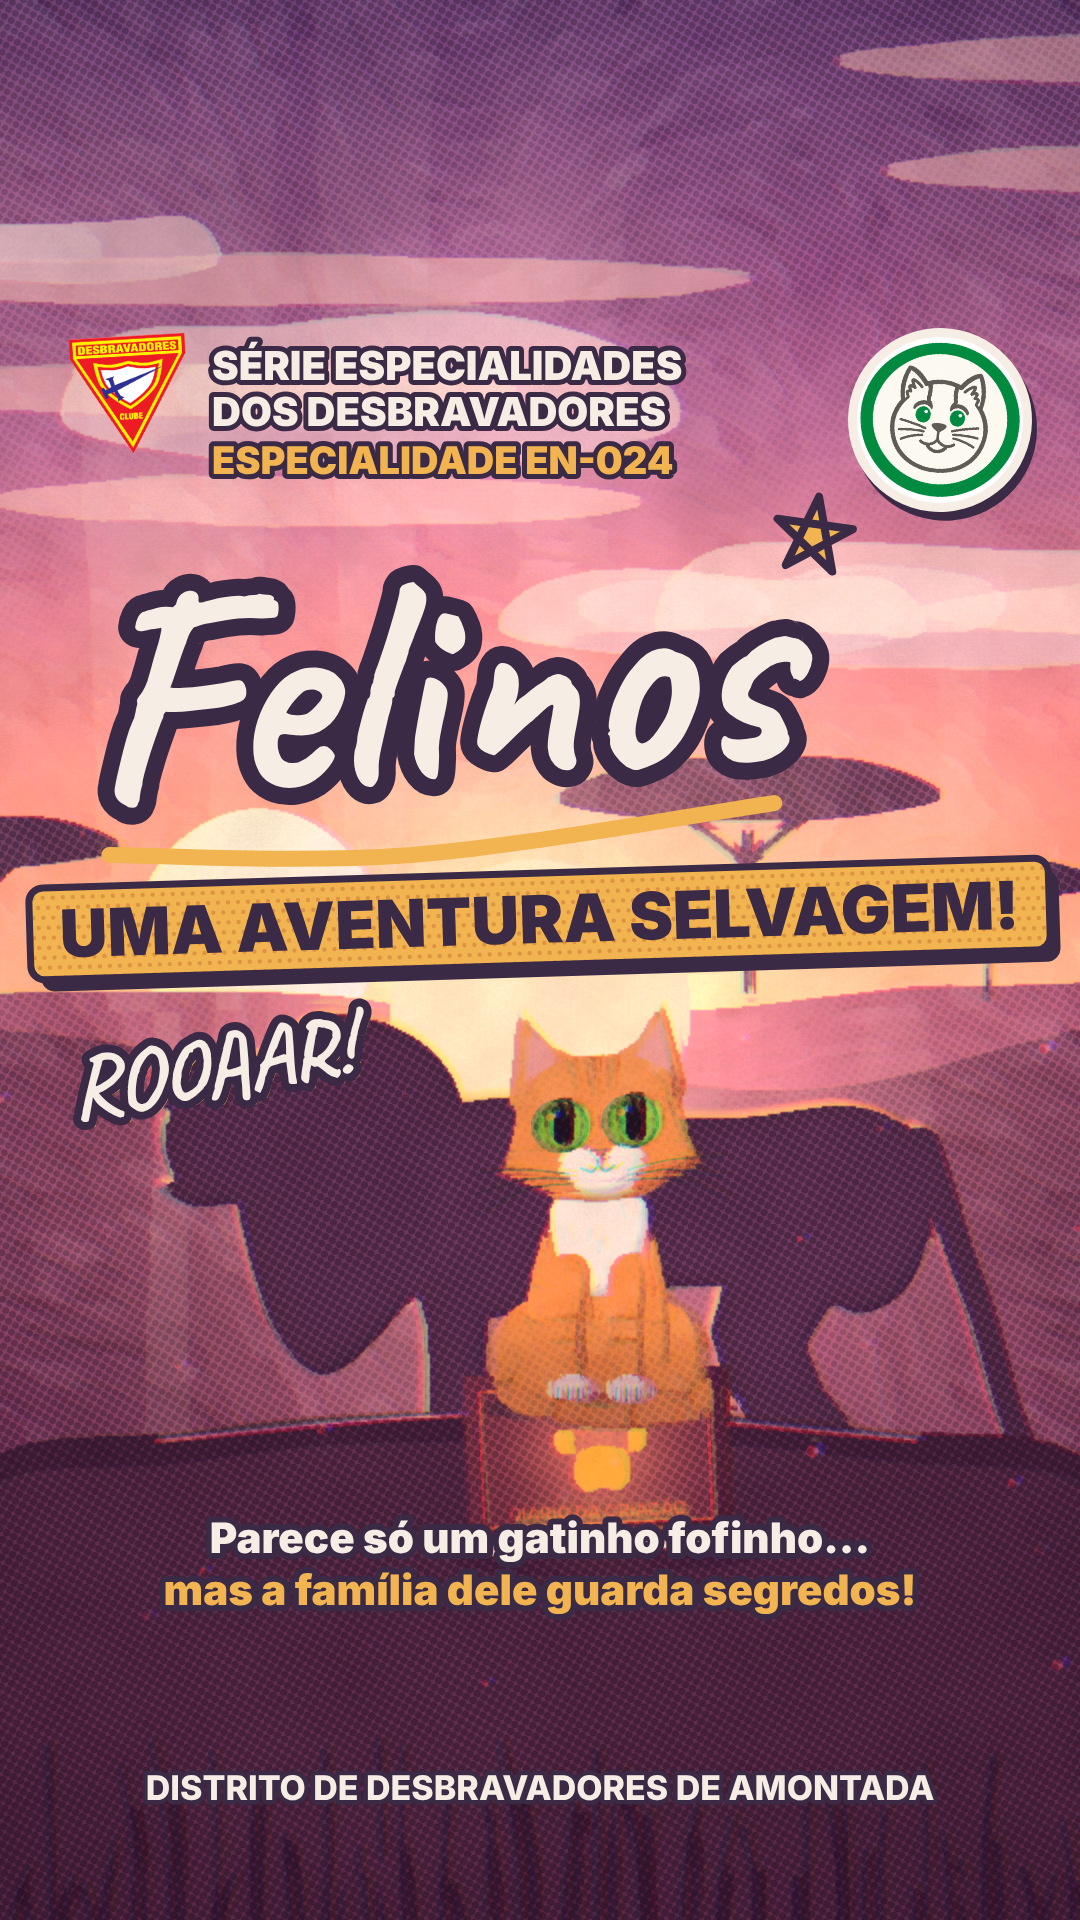
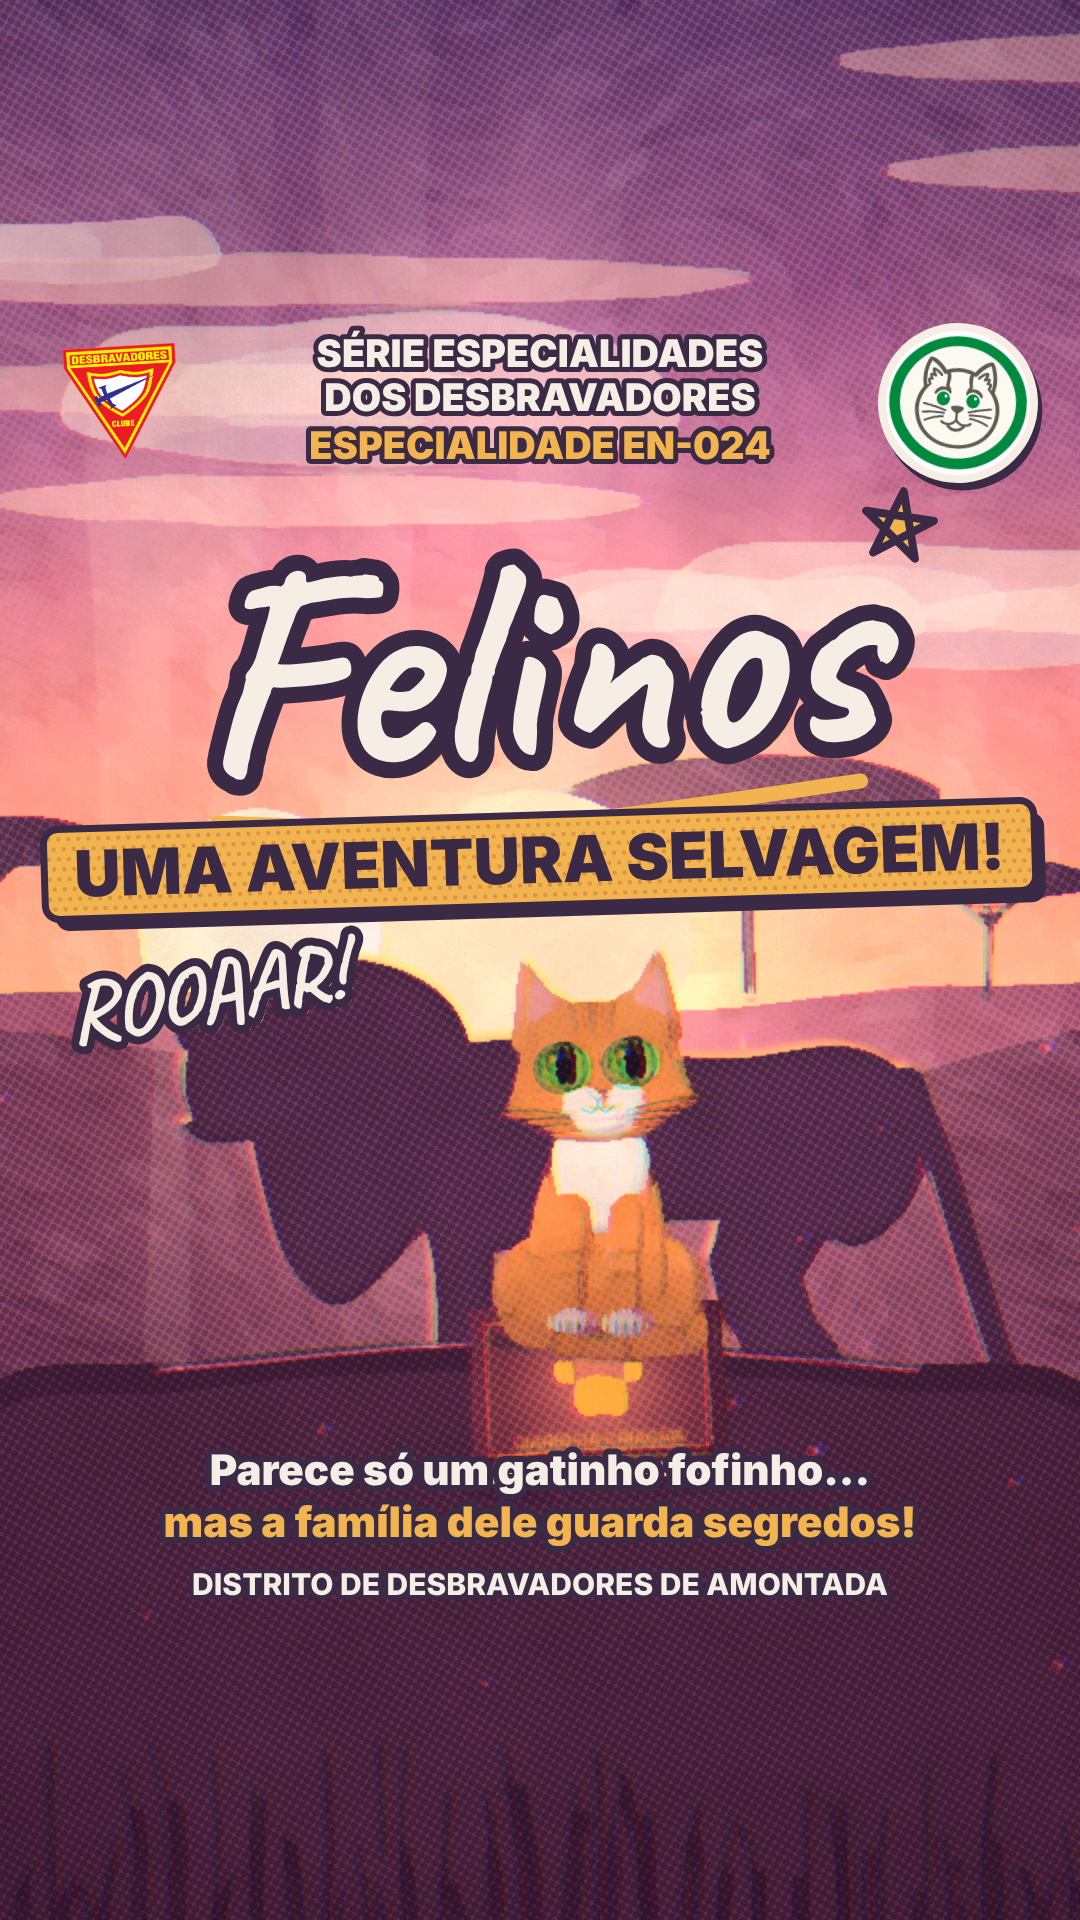
Felinos: capa 9:16 com o essencial centralizado na faixa 4:5; regra registrada no estilo aprovado
Claude-Session: https://claude.ai/code/session_01NsvQa17PZTE8K7Z7TbbvHr

diff --git a/FELINOS_EPISODIO/js/capa.js b/FELINOS_EPISODIO/js/capa.js
@@ -7,26 +7,26 @@ function renderCapa(ctx, o = {}) {
   BOIL = 3; ctx.setTransform(1, 0, 0, 1, 0, 0); ctx.globalAlpha = 1; ctx.globalCompositeOperation = 'source-over';
   // ---------- céu da savana ao pôr do sol, sol atrás do título
   ctx.drawImage(savannaBg(), -210, -200);
-  glowSpot(ctx, 540, 1010, 760, 'rgba(255,196,140,0.55)');
-  ctx.fillStyle = '#FFF0D2'; ctx.beginPath(); ctx.arc(540, 1010, 150, 0, 6.283); ctx.fill();
-  sunRays(ctx, t, { x: 540, y: 1010, ang: Math.PI, len: 1300, n: 9, width: 90, alpha: 0.26, seed: 31 });
-  sunRays(ctx, t, { x: 540, y: 1010, ang: 0, len: 1200, n: 7, width: 80, alpha: 0.12, seed: 37 });
+  glowSpot(ctx, 540, 940, 760, 'rgba(255,196,140,0.55)');
+  ctx.fillStyle = '#FFF0D2'; ctx.beginPath(); ctx.arc(540, 940, 150, 0, 6.283); ctx.fill();
+  sunRays(ctx, t, { x: 540, y: 940, ang: Math.PI, len: 1300, n: 9, width: 90, alpha: 0.26, seed: 31 });
+  sunRays(ctx, t, { x: 540, y: 940, ang: 0, len: 1200, n: 7, width: 80, alpha: 0.12, seed: 37 });
   cloudsDrift(ctx, t, { y0: 120, y1: 560, n: 4, speed: 10, wrap: 1900, x0: -500, alpha: 0.75 });
   // ---------- a sombra do leão rugindo (o segredo do gatinho), projetada no horizonte
   const [sc, sg] = layer('capaSombra');
-  drawBigCat(sg, 'lion', { x: 640, y: 1555, s: 1.25, flip: true, jaw: 0.95, headRot: -12, tail: 1.2, blink: 0 }, td, {});
+  drawBigCat(sg, 'lion', { x: 640, y: 1478, s: 1.2, flip: true, jaw: 0.95, headRot: -12, tail: 1.2, blink: 0 }, td, {});
   const [rc, rg] = layer('capaRim'); rg.drawImage(sc, 0, 0); rg.globalCompositeOperation = 'source-in'; rg.fillStyle = '#FFD08A'; rg.fillRect(0, 0, W, H);
   sg.globalCompositeOperation = 'source-in'; sg.fillStyle = 'rgba(58,32,62,1)'; sg.fillRect(0, 0, W, H);
   ctx.save(); ctx.globalAlpha = 0.95; ctx.drawImage(rc, -7, -8); ctx.globalAlpha = 0.9; ctx.drawImage(sc, 0, 0); ctx.restore();   // contraluz âmbar na borda
   ctx.save(); ctx.globalCompositeOperation = 'screen'; ctx.globalAlpha = 0.5; ctx.filter = 'blur(14px)'; ctx.drawImage(sc, 0, 0); ctx.restore();
   // brilho dos olhos na sombra (âmbar, discreto)
   // ---------- chão da savana e capim
-  inkShape(ctx, [[-40, 1500], [200, 1430], [540, 1410], [880, 1430], [1120, 1500], [1120, 1960, 1], [-40, 1960, 1]], { fill: '#5A3650', shade: '#4A2C44', shadeOff: [0, -30], line: BGL, lw: 4, wob: 0 });
-  inkLine(ctx, [[160, 1440], [540, 1412], [920, 1440]], { line: '#F6C9A0', lw: 5, wob: 0, alpha: 0.85 });
+  inkShape(ctx, [[-40, 1430], [200, 1360], [540, 1340], [880, 1360], [1120, 1430], [1120, 1960, 1], [-40, 1960, 1]], { fill: '#5A3650', shade: '#4A2C44', shadeOff: [0, -30], line: BGL, lw: 4, wob: 0 });
+  inkLine(ctx, [[160, 1370], [540, 1342], [920, 1370]], { line: '#F6C9A0', lw: 5, wob: 0, alpha: 0.85 });
   const rim = { dir: [0, -1], key: 'rgba(255,220,170,0.25)', shade: 'rgba(60,24,60,0.5)', rim: 'rgba(255,226,180,1)', rimW: 6, rimA: 0.95 };
   // ---------- o Diário da Criação e o Pingo sentado nele, iluminado de trás
-  diaryBook(ctx, 600, 1462, -0.04, 1.0, 0.9);
-  drawPingo(ctx, { x: 600, y: 1405, s: 0.62, tail: 1.9, look: [0, -2], dilate: 0.55, tilt: -4, blink: 0 });
+  diaryBook(ctx, 600, 1392, -0.04, 0.96, 0.9);
+  drawPingo(ctx, { x: 600, y: 1338, s: 0.6, tail: 1.9, look: [0, -2], dilate: 0.55, tilt: -4, blink: 0 });
   // capim em primeiro plano e partículas de luz
   for (let i = 0; i < 90; i++) { const x = -40 + i * 13 + rnd(i, 1) * 10, hh = 70 + rnd(i, 2) * 150, sw = 10 * Math.sin(i * 0.7); inkLine(ctx, [[x, 1960], [x + sw * 0.4, 1960 - hh * 0.55], [x + sw + (rnd(i, 3) - 0.5) * 30, 1960 - hh]], { line: i % 3 ? '#3E2438' : '#5A3450', lw: 6 + rnd(i, 4) * 4, wob: 0 }); }
   motes(ctx, t, [0, 700, W, 1000], { n: 40, seed: 77, color: '255,232,190', size: 4, alpha: 0.85 });
@@ -37,45 +37,39 @@ function renderCapa(ctx, o = {}) {
 }
 /** textos e marcas (depois do filtro, nítidos) */
 function capaUI(ctx) {
-  ctx.save(); ctx.setTransform(1, 0, 0, 1, 0, 0); ctx.textBaseline = 'alphabetic';
-  // série + emblema oficial dos Desbravadores
-  const em = document.getElementById('emblema');
-  ctx.save(); ctx.translate(130, 395); ctx.rotate(-0.06); ctx.drawImage(em, -58, -59, 116, 118); ctx.restore();
-  ctx.textAlign = 'left'; ctx.font = '900 40px InterUI'; ctx.fillStyle = CREAM; ctx.strokeStyle = PLUM; ctx.lineWidth = 10; ctx.lineJoin = 'round';
-  [['SÉRIE ESPECIALIDADES', 380], ['DOS DESBRAVADORES', 426]].forEach(([s, y]) => { ctx.strokeText(s, 212, y); ctx.fillText(s, 212, y); });
-  // título "Felinos" escrito à mão, com cópia âmbar fora de registro, sublinhado e estrelinha
-  ctx.save(); ctx.translate(92, 800); ctx.rotate(-0.06);
-  ctx.font = '700 300px Caveat'; const tw = ctx.measureText('Felinos').width;
-  ctx.fillStyle = ACCENT; ctx.fillText('Felinos', 12, 12);
-  ctx.strokeStyle = PLUM; ctx.lineWidth = 34; ctx.lineJoin = 'round'; ctx.strokeText('Felinos', 0, 0);
-  ctx.fillStyle = CREAM; ctx.fillText('Felinos', 0, 0);
-  ctx.strokeStyle = ACCENT; ctx.lineWidth = 16; ctx.lineCap = 'round'; ctx.beginPath(); trace(ctx, smooth([[14, 56], [tw * 0.45, 74], [tw * 0.97, 44]], false, 12), false); ctx.stroke();
-  ctx.save(); ctx.translate(tw + 34, -220); ctx.rotate(0.2); ctx.fillStyle = ACCENT; ctx.strokeStyle = PLUM; ctx.lineWidth = 8; ctx.beginPath(); for (let i = 0; i < 5; i++) { const a = -Math.PI / 2 + i * 4 * Math.PI / 5; ctx.lineTo(Math.cos(a) * 40, Math.sin(a) * 40); } ctx.closePath(); ctx.fill(); ctx.stroke(); ctx.restore();
+  // tudo o que importa fica na faixa central 4:5 (1080×1350, y 285–1635) da arte 9:16; fora dela só céu e capim
+  const B0 = 285, B1 = 1635;
+  ctx.save(); ctx.setTransform(1, 0, 0, 1, 0, 0); ctx.textBaseline = 'alphabetic'; ctx.lineJoin = 'round';
+  const outline = (txt, x, y, fill, lw = 10) => { ctx.lineWidth = lw; ctx.strokeStyle = PLUM; ctx.strokeText(txt, x, y); ctx.fillStyle = fill; ctx.fillText(txt, x, y); };
+  // cabeçalho centralizado: emblema oficial à esquerda, série no meio, insígnia oficial EN-024 à direita
+  const em = document.getElementById('emblema'), ins = document.getElementById('insignia');
+  ctx.save(); ctx.translate(122, B0 + 118); ctx.rotate(-0.06); ctx.drawImage(em, -56, -57, 112, 114); ctx.restore();
+  ctx.save(); ctx.translate(958, B0 + 118); ctx.rotate(0.1);
+  ctx.fillStyle = PLUM; ctx.beginPath(); ctx.arc(5, 7, 80, 0, 6.283); ctx.fill(); ctx.fillStyle = CREAM; ctx.beginPath(); ctx.arc(0, 0, 80, 0, 6.283); ctx.fill();
+  ctx.save(); ctx.beginPath(); ctx.arc(0, 0, 72, 0, 6.283); ctx.clip(); ctx.drawImage(ins, -75, -75, 150, 150); ctx.restore(); ctx.restore();
+  ctx.textAlign = 'center'; ctx.font = '900 38px InterUI';
+  outline('SÉRIE ESPECIALIDADES', 540, B0 + 82, CREAM); outline('DOS DESBRAVADORES', 540, B0 + 126, CREAM);
+  ctx.font = '900 38px InterUI'; outline('ESPECIALIDADE EN-024', 540, B0 + 174, ACCENT);
+  // título "Felinos" escrito à mão, centralizado, com cópia âmbar fora de registro, sublinhado e estrelinha
+  ctx.save(); ctx.translate(540, B0 + 470); ctx.rotate(-0.05);
+  ctx.font = '700 290px Caveat'; ctx.textAlign = 'left'; const tw = ctx.measureText('Felinos').width, x0 = -tw / 2;
+  ctx.fillStyle = ACCENT; ctx.fillText('Felinos', x0 + 12, 12);
+  ctx.strokeStyle = PLUM; ctx.lineWidth = 32; ctx.strokeText('Felinos', x0, 0); ctx.fillStyle = CREAM; ctx.fillText('Felinos', x0, 0);
+  ctx.strokeStyle = ACCENT; ctx.lineWidth = 15; ctx.lineCap = 'round'; ctx.beginPath(); trace(ctx, smooth([[x0 + 14, 52], [x0 + tw * 0.45, 70], [x0 + tw * 0.97, 42]], false, 12), false); ctx.stroke();
+  ctx.save(); ctx.translate(x0 + tw + 30, -210); ctx.rotate(0.2); ctx.fillStyle = ACCENT; ctx.strokeStyle = PLUM; ctx.lineWidth = 8; ctx.beginPath(); for (let i = 0; i < 5; i++) { const a = -Math.PI / 2 + i * 4 * Math.PI / 5; ctx.lineTo(Math.cos(a) * 36, Math.sin(a) * 36); } ctx.closePath(); ctx.fill(); ctx.stroke(); ctx.restore();
   ctx.restore();
   // subtítulo em caixa de gibi
-  ctx.save(); ctx.translate(540, 935); ctx.rotate(-0.03);
-  ctx.font = '900 66px InterUI'; const sub = 'UMA AVENTURA SELVAGEM!', sw = ctx.measureText(sub).width;
-  ctx.fillStyle = PLUM; ctx.beginPath(); ctx.roundRect(-sw / 2 - 30 + 10, -62 + 12, sw + 60, 92, 14); ctx.fill();
-  halftoneBox(ctx, -sw / 2 - 30, -62, sw + 60, 92); ctx.textAlign = 'center'; ctx.fillStyle = PLUM; ctx.fillText(sub, 0, 8);
+  ctx.save(); ctx.translate(540, B0 + 590); ctx.rotate(-0.03);
+  ctx.font = '900 64px InterUI'; const sub = 'UMA AVENTURA SELVAGEM!', sw = ctx.measureText(sub).width;
+  ctx.fillStyle = PLUM; ctx.beginPath(); ctx.roundRect(-sw / 2 - 30 + 10, -60 + 12, sw + 60, 90, 14); ctx.fill();
+  halftoneBox(ctx, -sw / 2 - 30, -60, sw + 60, 90); ctx.textAlign = 'center'; ctx.fillStyle = PLUM; ctx.fillText(sub, 0, 8);
   ctx.restore();
-  // insígnia oficial EN-024 carimbada ao lado do título
-  const ins = document.getElementById('insignia');
-  ctx.save(); ctx.translate(940, 420); ctx.rotate(0.12);
-  ctx.fillStyle = PLUM; ctx.beginPath(); ctx.arc(6, 8, 92, 0, 6.283); ctx.fill();
-  ctx.fillStyle = CREAM; ctx.beginPath(); ctx.arc(0, 0, 92, 0, 6.283); ctx.fill();
-  ctx.save(); ctx.beginPath(); ctx.arc(0, 0, 83, 0, 6.283); ctx.clip(); ctx.drawImage(ins, -87, -87, 174, 174); ctx.restore();
-  ctx.restore();
-  ctx.save(); ctx.translate(212, 474); ctx.textAlign = 'left'; ctx.font = '900 38px InterUI'; ctx.lineWidth = 10; ctx.strokeStyle = PLUM; ctx.fillStyle = ACCENT; ctx.strokeText('ESPECIALIDADE EN-024', 0, 0); ctx.fillText('ESPECIALIDADE EN-024', 0, 0); ctx.restore();
   // onomatopeia do rugido da sombra
-  ctx.save(); ctx.translate(215, 1095); ctx.rotate(-0.16); ctx.font = '700 88px Caveat'; ctx.textAlign = 'center'; ctx.lineJoin = 'round';
-  ctx.fillStyle = ACCENT; ctx.fillText('ROOAAR!', 6, 6); ctx.strokeStyle = PLUM; ctx.lineWidth = 16; ctx.strokeText('ROOAAR!', 0, 0); ctx.fillStyle = CREAM; ctx.fillText('ROOAAR!', 0, 0); ctx.restore();
-  // chamada (gancho) na base da área segura
-  ctx.save(); ctx.translate(540, 1553); ctx.textAlign = 'center'; ctx.font = '900 42px InterUI'; ctx.lineJoin = 'round';
-  const l1 = 'Parece só um gatinho fofinho...', l2 = 'mas a família dele guarda segredos!';
-  ctx.lineWidth = 12; ctx.strokeStyle = PLUM; ctx.fillStyle = CREAM; ctx.strokeText(l1, 0, 0); ctx.fillText(l1, 0, 0);
-  ctx.fillStyle = ACCENT; ctx.strokeText(l2, 0, 52); ctx.fillText(l2, 0, 52); ctx.restore();
-  // rodapé (fora do recorte do perfil, visível ao abrir o Reels)
-  ctx.textAlign = 'center'; ctx.font = '800 34px InterUI'; ctx.fillStyle = CREAM; ctx.strokeStyle = PLUM; ctx.lineWidth = 9;
-  const ft = 'DISTRITO DE DESBRAVADORES DE AMONTADA'; ctx.strokeText(ft, 540, 1800); ctx.fillText(ft, 540, 1800);
+  ctx.save(); ctx.translate(210, B0 + 735); ctx.rotate(-0.16); ctx.font = '700 86px Caveat'; ctx.textAlign = 'center';
+  ctx.fillStyle = ACCENT; ctx.fillText('ROOAAR!', 6, 6); outline('ROOAAR!', 0, 0, CREAM, 16); ctx.restore();
+  // gancho e rodapé, ainda dentro da faixa
+  ctx.textAlign = 'center'; ctx.font = '900 42px InterUI';
+  outline('Parece só um gatinho fofinho...', 540, B1 - 150, CREAM, 12); outline('mas a família dele guarda segredos!', 540, B1 - 98, ACCENT, 12);
+  ctx.font = '800 30px InterUI'; outline('DISTRITO DE DESBRAVADORES DE AMONTADA', 540, B1 - 40, CREAM, 9);
   ctx.restore();
 }

diff --git a/ESTILO_APROVADO/especialidades.md b/ESTILO_APROVADO/especialidades.md
@@ -167,6 +167,13 @@ Animais usam cores naturais por espécie. Por exemplo, as listras do tigre são 
 - **Prazo de publicação:** perguntar o horário com antecedência. Reaproveitar segmentos que não mudaram. Se o tempo não der, oferecer opções ao usuário (ex.: trechos a 15 quadros/s) e, depois, uma versão final uniforme a 30 quadros/s.
 - Vídeos, mixagem e fotos ficam **fora do git** (limite de 100 MB do GitHub). O código regenera tudo.
 
+## 12b. Capa do Instagram
+
+- **Uma arte só, em 9:16** (1080×1920), gerada pelo motor do episódio: `node render.mjs --capa saida.png`, código em `js/capa.js`.
+- **Tudo o que importa centralizado na faixa 4:5 do meio** (1080×1350, de y 285 a 1635): cabeçalho com emblema, série, especialidade e insígnia oficial, título, subtítulo, cena principal, chamada e rodapé com o Distrito. Fora dessa faixa, só fundo (céu e chão).
+- O comando também gera `saida_guia4x5.png`, com a faixa marcada, para conferir. Esse arquivo não é entrega.
+- **Conceito:** o gancho do episódio virado imagem. Em Felinos, o Pingo sentado no Diário da Criação, com a sombra de um leão rugindo ao pôr do sol. Os personagens, as cores, as letras e o filtro são os do vídeo.
+
 ## 13. Como começar uma nova especialidade
 
 ```sh
